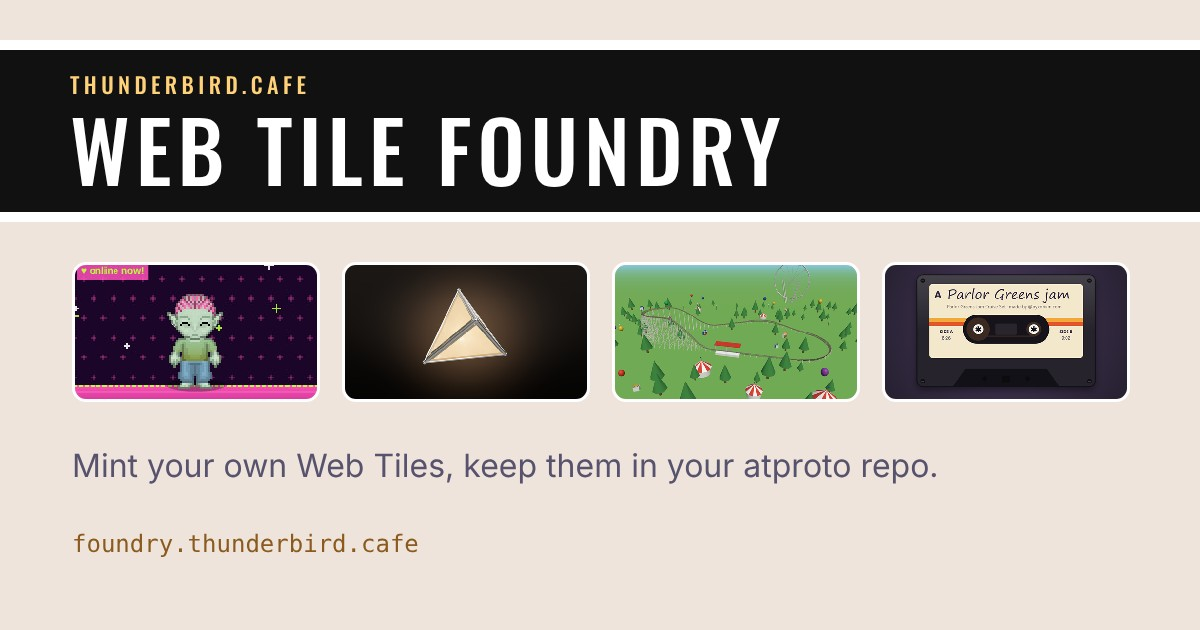
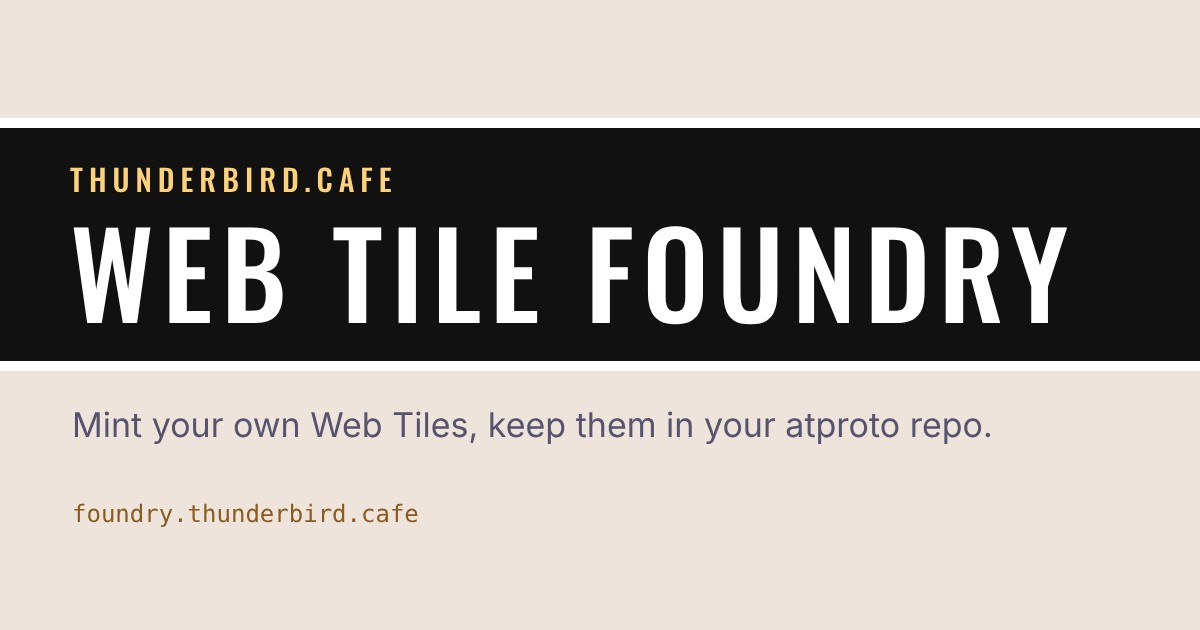
Link preview: use the sign-only image

diff --git a/index.html b/index.html
@@ -20,7 +20,7 @@
     <meta property="og:image:type" content="image/jpeg" />
     <meta property="og:image:width" content="1200" />
     <meta property="og:image:height" content="630" />
-    <meta property="og:image:alt" content="Web Tile Foundry: a black and white sign over four tiles: a pixel-art sprite, a glass lantern, a roller coaster and a cassette tape." />
+    <meta property="og:image:alt" content="Web Tile Foundry: a black sign band with white stripes, reading THUNDERBIRD.CAFE and WEB TILE FOUNDRY." />
     <meta name="twitter:card" content="summary_large_image" />
   </head>
   <body>
